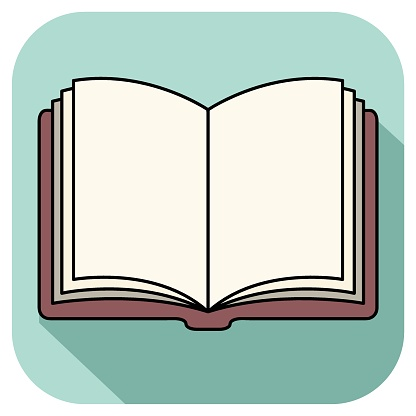
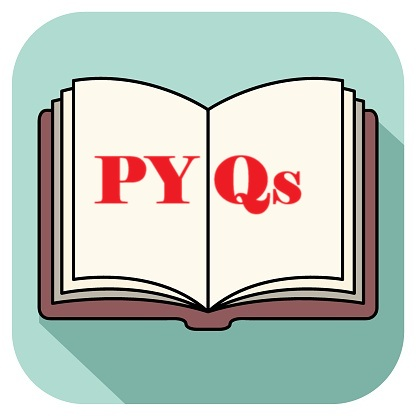
updated home page

Changed region(s): [[0.5, 0.375, 0.75, 0.5312], [0.2188, 0.375, 0.4688, 0.5]]

diff --git a/templates/home.html b/templates/home.html
@@ -45,7 +45,7 @@ h1{font-size: 4vw;
   letter-spacing: 2px;
   animation: fadeMove 3s ease-in-out infinite;}
 @keyframes fadeMove{0%{opacity: 1.2;transform: translateY(8px);}50%{opacity: 2;transform: translateY(0px);}100%{opacity: 1.2;transform: translateY(8px);}}
-.thumb{width: 100%; height: 100px; border-radius: 15px; object-fit: cover; margin-bottom:15px;}
+.thumb{width: 100%; height: 100px; border-radius: 25px; object-fit: cover; margin-bottom:15px;}
   </style>
 </head>
 <body>
